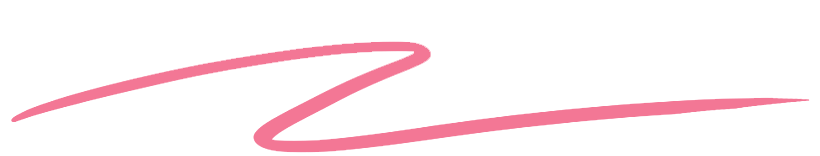
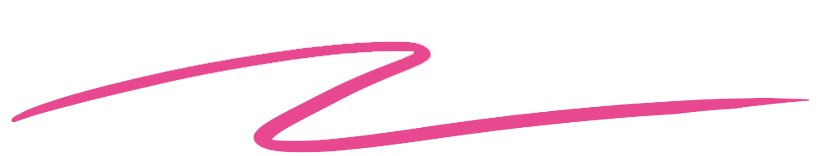
some changes done

Changed region(s): [[0.0, 0.2564, 1.0, 0.9744]]

diff --git a/src/data/index.ts b/src/data/index.ts
@@ -3,7 +3,7 @@ export const MUMBAI_ADDRESS = {
     "https://www.google.com/maps/embed?pb=!1m18!1m12!1m3!1d3660.4972375831276!2d72.8392009!3d19.1756447!2m3!1f0!2f0!3f0!3m2!1i1024!2i768!4f13.1!3m3!1m2!1s0x3be7b7dc98e75a79%3A0xea9792c966002d43!2sLooklush!5e1!3m2!1sen!2sin!4v1748327357825!5m2!1sen!2sin",
   city: "Mumbai",
   address:
-    "01, AHIMSA HEIGHT, AHIMSA MARG, NEAR SUNDAR NAGAR, OFF, Chincholi Bunder Rd, Malad West, Mumbai, Maharashtra 400064",
+    "101, AHIMSA HEIGHT, AHIMSA MARG, NEAR SUNDAR NAGAR, OFF, Chincholi Bunder Rd, Malad West, Mumbai, Maharashtra 400064",
   phone: "+91 93228 17696",
   email: "drpatelpoonam@gmail.com",
   visit_link: "https://maps.app.goo.gl/m1GjnPQs7wpRtnrt9",
@@ -14,7 +14,7 @@ export const GURUGRAM_ADDRESS = {
   city: "Gurugram",
   address:
     "R3, M3M Urbana mall, 108, Golf course extension Road, Sector 67, Gurugram, Haryana 122001",
-  phone: "+91 93228 17696",
+  phone: "+91 90826 40898",
   email: "drpatelpoonam@gmail.com",
   visit_link: "https://maps.app.goo.gl/P1k6XJHxwtPji4L39",
 };

diff --git a/src/app/globals.css b/src/app/globals.css
@@ -1,13 +1,13 @@
 @import "tailwindcss";
 
 :root {
-  --bg-theme-color: rgb(244, 119, 149);
-  --bg-theme-dark: #d54b6c;
+  --bg-theme-color: #e84890;
+  --bg-theme-dark: #d9327d;
   --text-theme-dark: var(--bg-theme-dark);
   --bg-theme-color2: #fdf1f3;
   --bg-section-color: #fbfbfb;
   --bg-primary-color: #ffffff;
-  --text-theme-color: #f47795;
+  --text-theme-color: #e84890;
   --text-white-color: #ffffff;
   --text-dark-color: #333333;
   --text-light-color: #606060;

diff --git a/src/components/layout/Footer/Footer.module.css b/src/components/layout/Footer/Footer.module.css
@@ -139,8 +139,8 @@
   display: flex;
   align-items: center;
   justify-content: center;
-  background-color: var(--bg-theme-dark);
-  color: var(--text-white-color);
+  background-color: var(--bg-primary-color);
+  color: var(--text-dark-color);
 
   padding: 5px 30px;
   border-radius: 30px;
